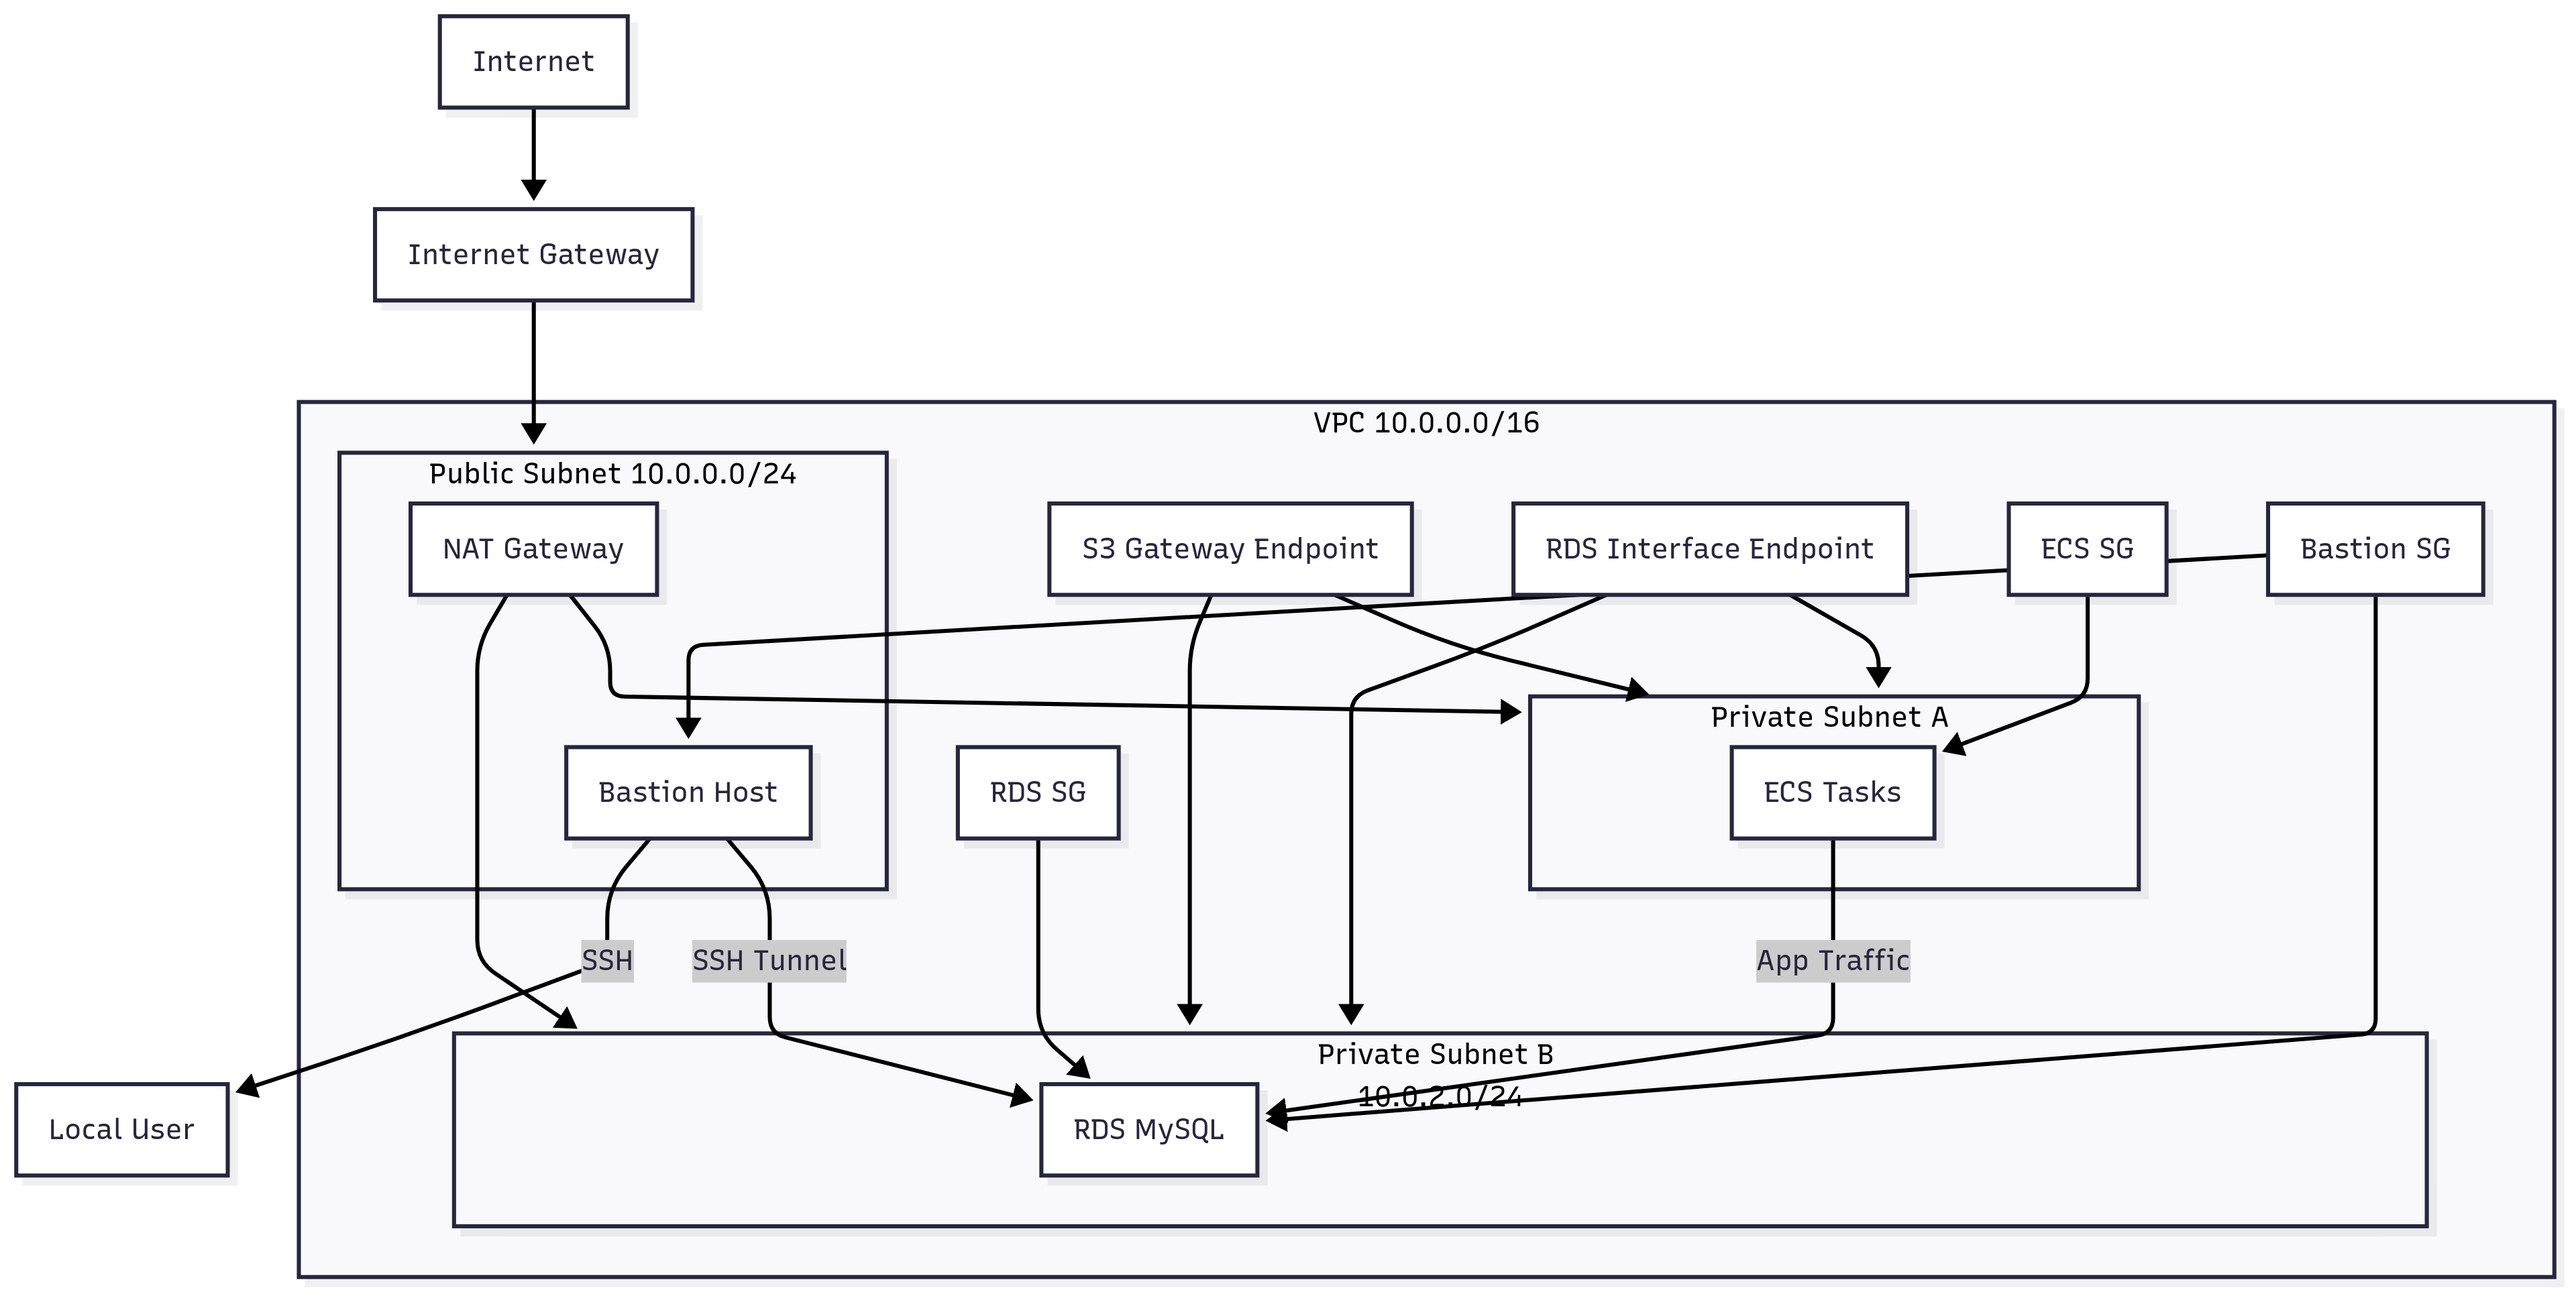
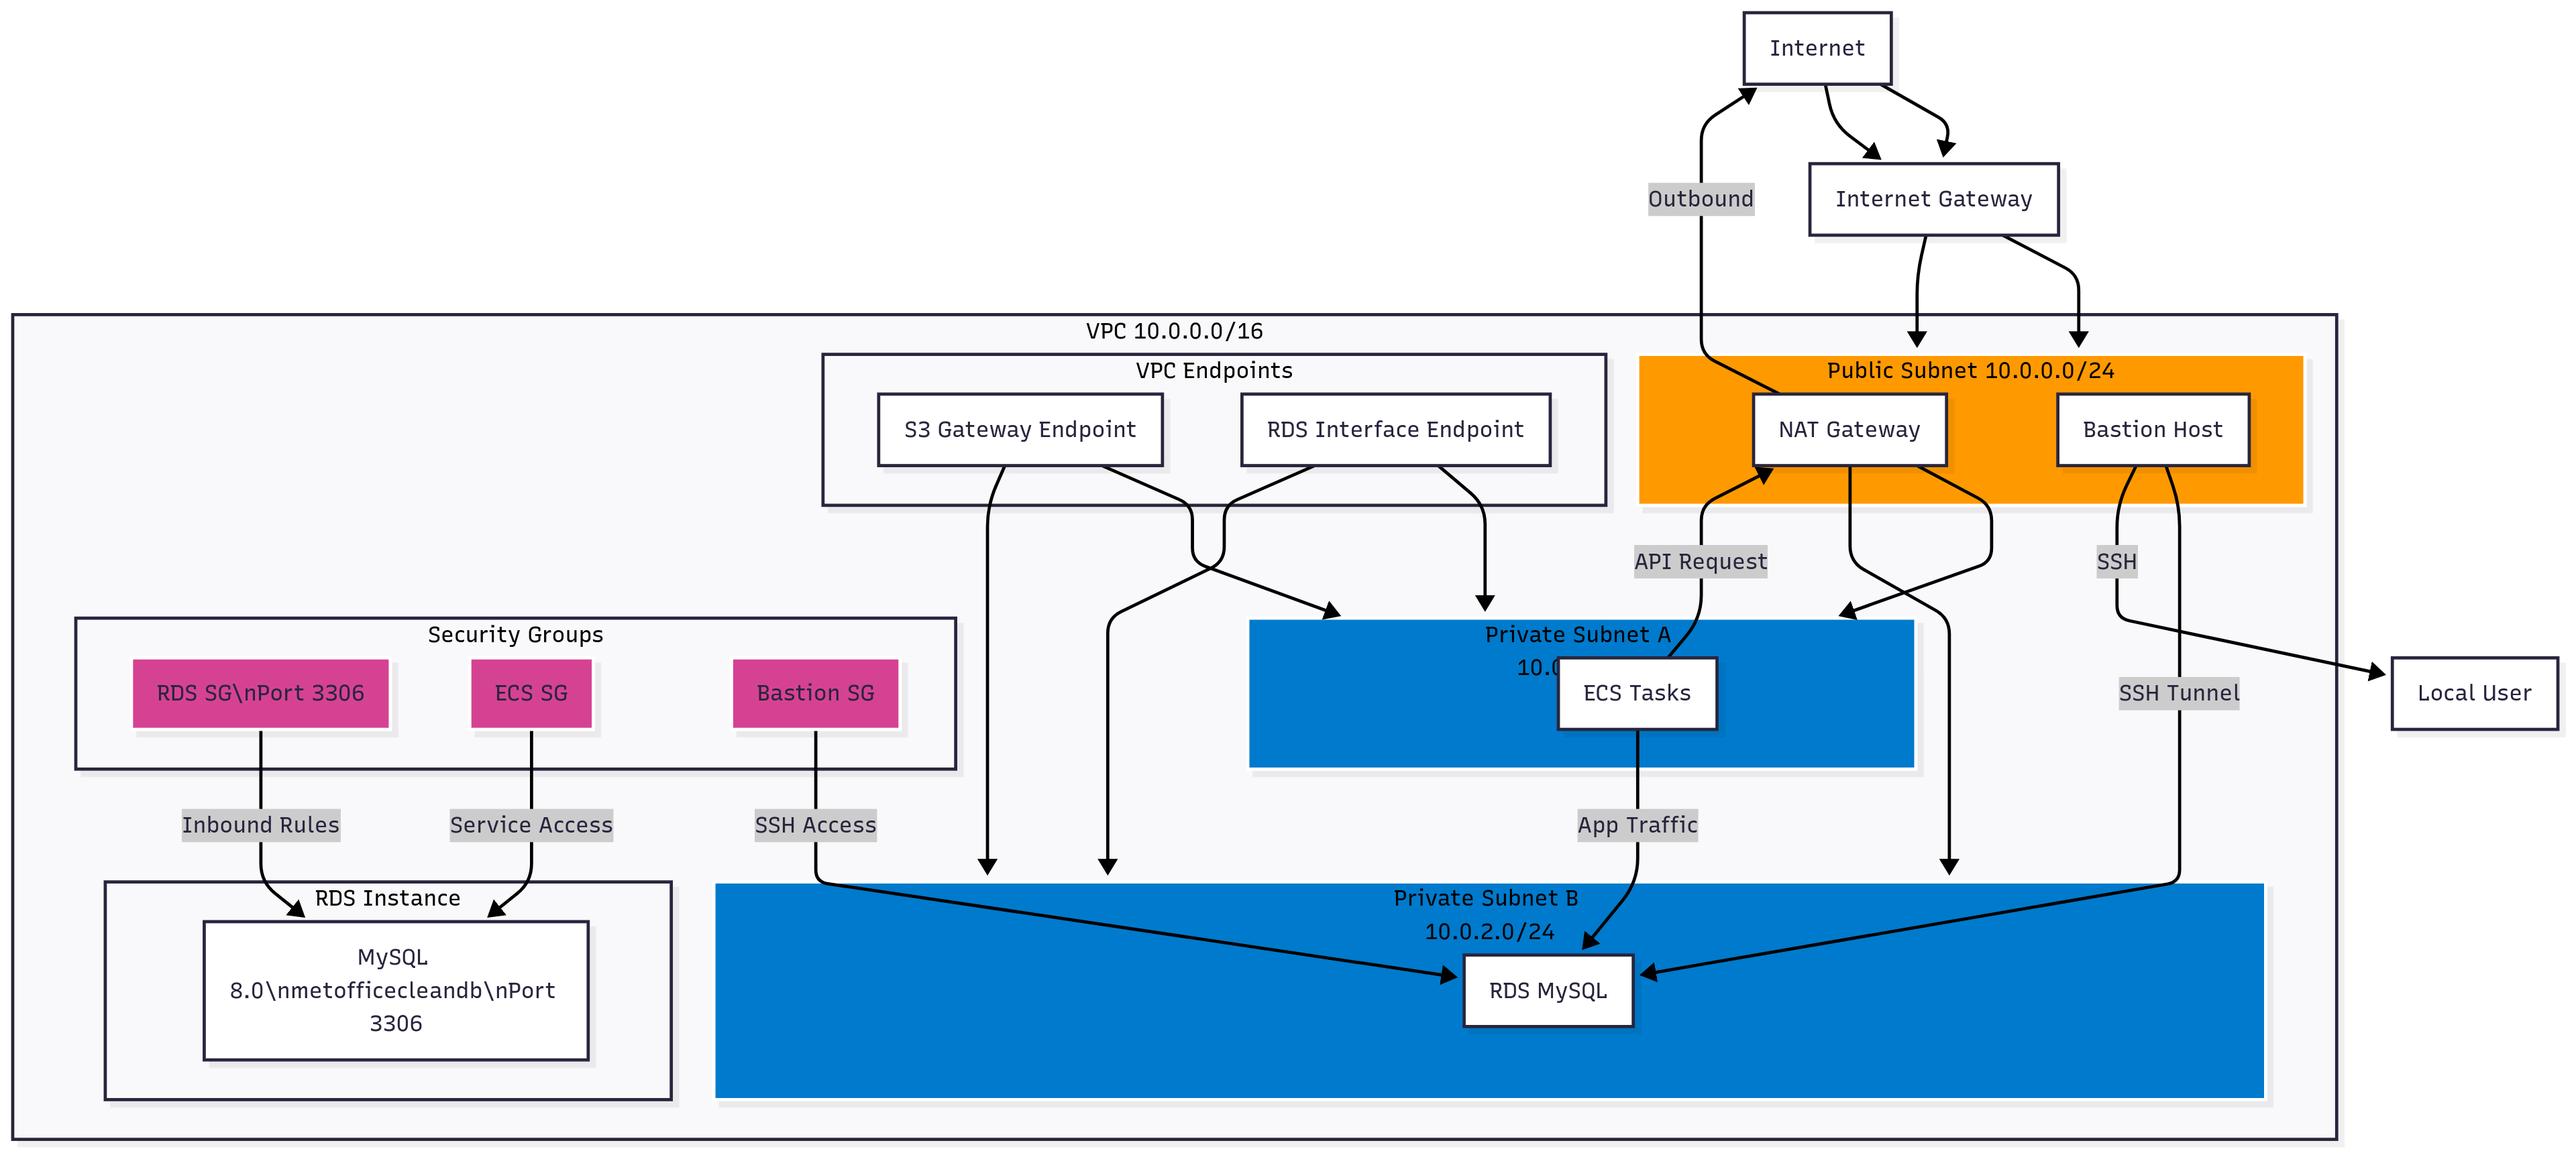
mermaid diagram and image generated

diff --git a/infradiagram.md b/infradiagram.md
@@ -1,15 +1,14 @@
 # Met Office ETL Infrastructure
 
-```mermaid
 graph TD
     %% Internet and VPC Gateway
-    Internet[fa:fa-globe Internet] --> IGW[fa:fa-door-open Internet Gateway]
+    Internet[Internet] --> IGW[Internet Gateway]
     IGW --> PublicSubnet
 
-    subgraph VPC[fa:fa-cloud VPC 10.0.0.0/16]
+    subgraph VPC[VPC 10.0.0.0/16]
         %% Public Networking
         subgraph PublicSubnet[Public Subnet 10.0.0.0/24]
-            NAT[fa:fa-exchange-alt NAT Gateway]
+            NAT[NAT Gateway]
             Bastion[Bastion Host]
         end
 
@@ -23,21 +22,21 @@ graph TD
         end
 
         %% Database Layer
-        subgraph RDS[fa:fa-database RDS Instance]
-            DB[fa:fa-database MySQL 8.0<br/>metofficecleandb<br/>Port 3306]
+        subgraph RDSLayer[RDS Instance]
+            DB[MySQL 8.0\nmetofficecleandb\nPort 3306]
         end
 
         %% AWS Services Integration
         subgraph Endpoints[VPC Endpoints]
-            S3End[fa:fa-archive S3 Gateway]
-            RDSEnd[fa:fa-plug RDS Interface]
+            S3End[S3 Gateway Endpoint]
+            RDSEnd[RDS Interface Endpoint]
         end
 
         %% Security Layer
         subgraph Security[Security Groups]
-            SG_RDS[fa:fa-shield-alt RDS SG<br/>Port 3306]
-            SG_ECS[fa:fa-shield-alt ECS SG]
-            SG_Bastion[fa:fa-shield-alt Bastion SG]
+            SG_RDS[RDS SG\nPort 3306]
+            SG_ECS[ECS SG]
+            SG_Bastion[Bastion SG]
         end
     end
 
@@ -59,6 +58,10 @@ graph TD
     SG_ECS --> |Service Access| DB
     SG_Bastion --> |SSH Access| RDS
 
+    %% Outbound API requests from ECS to Internet via NAT
+    ECS -->|API Request| NAT
+    NAT -->|Outbound| Internet
+
     %% Styling
     classDef public fill:#ff9900,stroke:#fff,stroke-width:2px
     classDef private fill:#007acc,stroke:#fff,stroke-width:2px
@@ -67,7 +70,6 @@ graph TD
     class PublicSubnet public
     class PrivateA,PrivateB private
     class SG_RDS,SG_ECS,SG_Bastion security
-```
 
 ---
 
@@ -78,6 +80,7 @@ graph TD
 - **S3End/RDSEnd**: VPC endpoints for S3 and RDS
 - **Security Groups**: Control access between ECS, Bastion, and RDS
 - **Bastion Host**: Used for secure SSH tunneling from your local machine to RDS
+- **ECS Outbound API**: ECS tasks send API requests to the internet via NAT Gateway
 
 ---
 
@@ -97,12 +100,13 @@ graph TD
 ### Security Groups
 - **RDS Security Group**
   - Inbound: Port 3306 (MySQL)
-  - Source: ECS Security Group, Local IP
+  - Source: ECS Security Group, Bastion SG
 - **ECS Security Group**
-  - Outbound: All traffic
+  - Outbound: 443 (HTTPS), 3306 (MySQL)
 - **Bastion Security Group**
   - Inbound: Port 22 (SSH)
   - Source: Your IP
+  - Outbound: All traffic
 
 ### Database
 - **Engine**: MySQL 8.0
